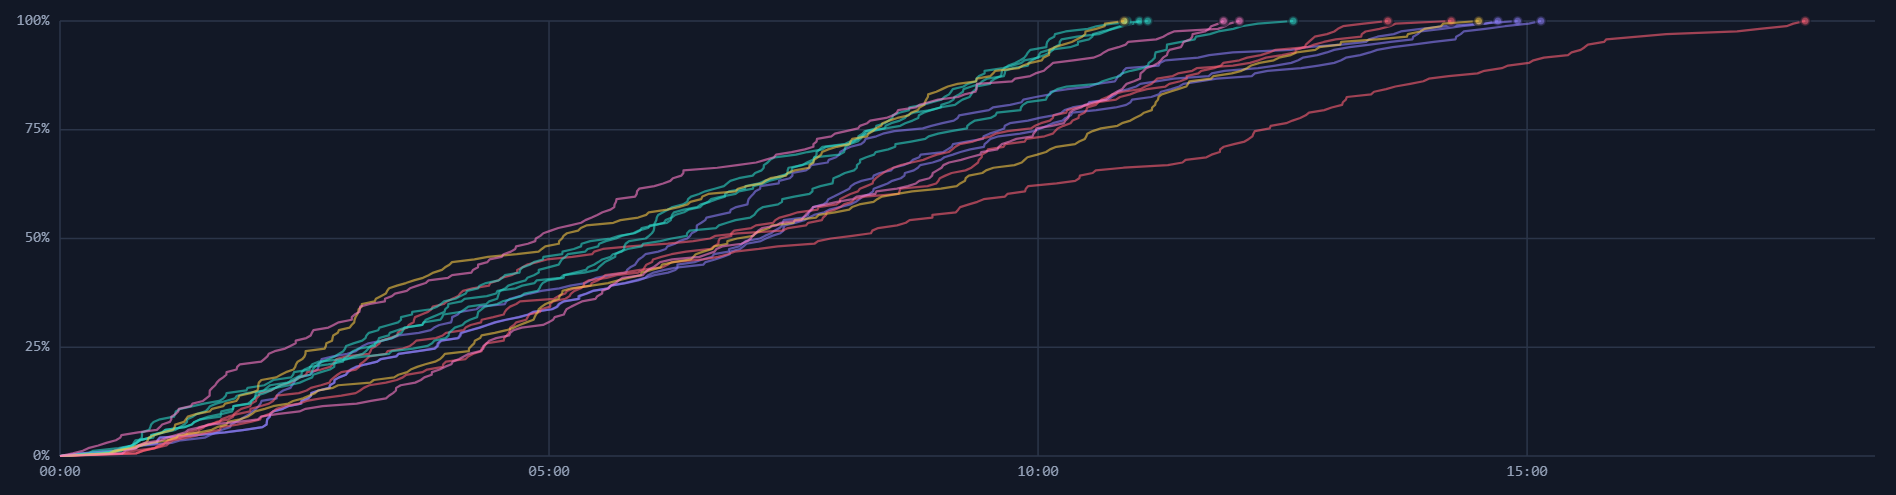
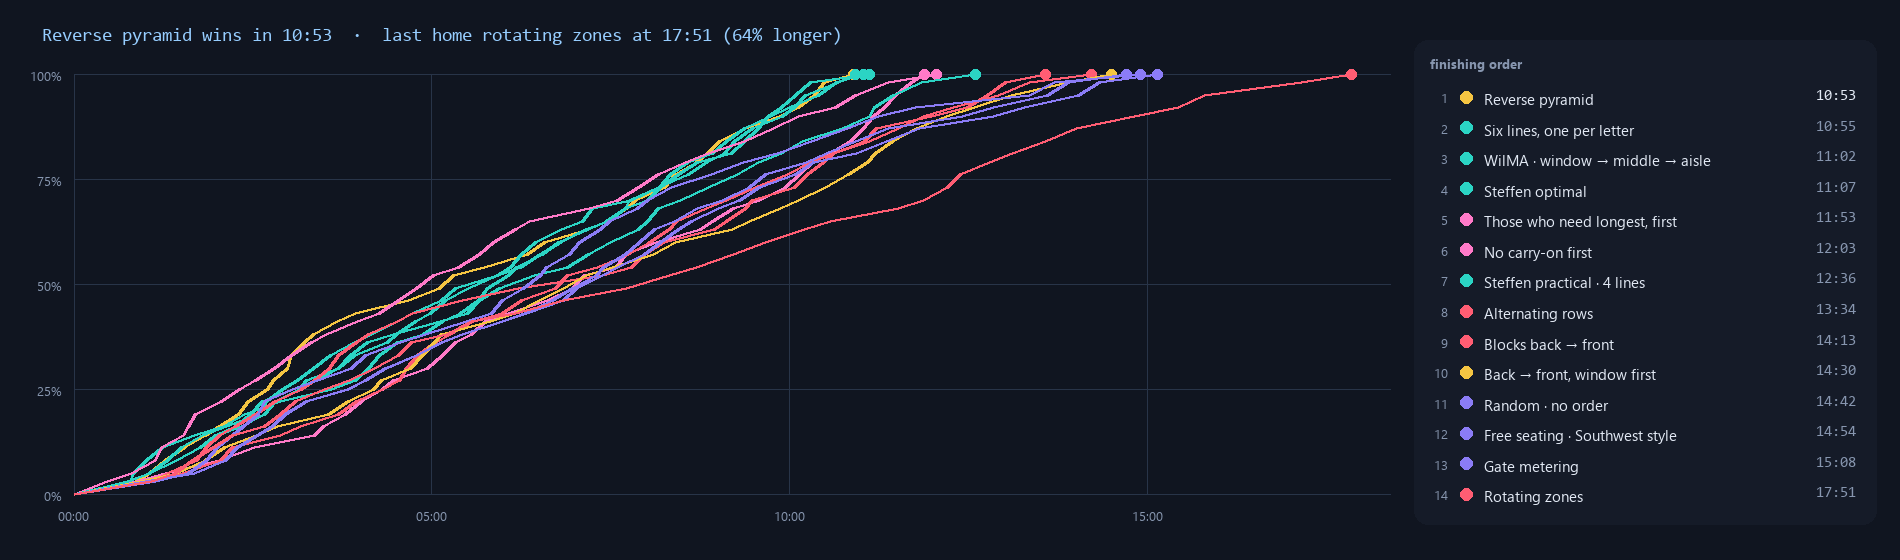
Keep the race running when the tab is not in front, and name the curves
Two things, and the first was found by tripping over it.

requestAnimationFrame does not fire in a hidden tab. The main loop called
it directly, so the race froze the moment anyone switched away and was
still at 00:00 when they came back — the play button said "Pause" and the
clock said nothing had happened. The replay loop twelve lines down
already guarded against exactly this; the main one never did. Measured
before: t stuck at 0 with document.hidden true. After: 243s of sim in the
first eight seconds, and all fourteen methods finishing.

curves.png was fourteen anonymous coloured lines. Which method is which,
which won, by how much — every fact the figure exists to carry was
missing from it. It now has the finishing order beside it, ranked, with
times, which is what makes the picture worth printing: Reverse pyramid
10:53, Rotating zones 17:51, 64% longer for sorting people into zones
rather than not sorting them at all.

Redrawn from a real run of the shipped simulator — the curves are lifted
out of the page after the race completes, not recomputed — so the figure
cannot drift from the thing it illustrates.

diff --git a/index.html b/index.html
@@ -1942,6 +1942,13 @@ function paintCards(){
 }
 
 /* ══════════════════════ loop ══════════════════════ */
+/* requestAnimationFrame does not fire in a hidden tab, so the race froze the
+   moment anyone switched away and was still at 00:00 when they came back. The
+   replay loop below already guarded against exactly this; the main one did not. */
+const nextFrame = fn => document.hidden
+  ? setTimeout(() => fn(performance.now()), 16)
+  : requestAnimationFrame(fn);
+
 function frame(now){
   const dt = Math.min(0.1, (now - lastT)/1000 || 0);
   lastT = now; clock += dt;
@@ -1966,7 +1973,7 @@ function frame(now){
     paintCards();
     if(playing && race && !race.done && !mc) renderTable();
   }
-  requestAnimationFrame(frame);
+  nextFrame(frame);
 }
 
 function rebuild(){
@@ -2305,5 +2312,5 @@ addEventListener("resize", () => { gcache = null; });
 renderFamLeg();
 syncLabels();
 rebuild();
-requestAnimationFrame(t => { lastT = t; requestAnimationFrame(frame); });
+nextFrame(t => { lastT = t; nextFrame(frame); });
 </script>

diff --git a/README.md b/README.md
@@ -118,7 +118,7 @@ The 4.7-minute gap between the best method and the one most airlines announce is
 worth **13.7 kg of APU fuel and 43 kg of CO₂ per turn**, which convert directly, and
 sits against a $100.76/minute block cost that only converts when the turn overruns.
 
-![Fourteen boarding curves](docs/media/curves.png)
+![Percentage seated against the clock for all fourteen methods, with the finishing order beside it](docs/media/curves.png)
 
 ---
 
